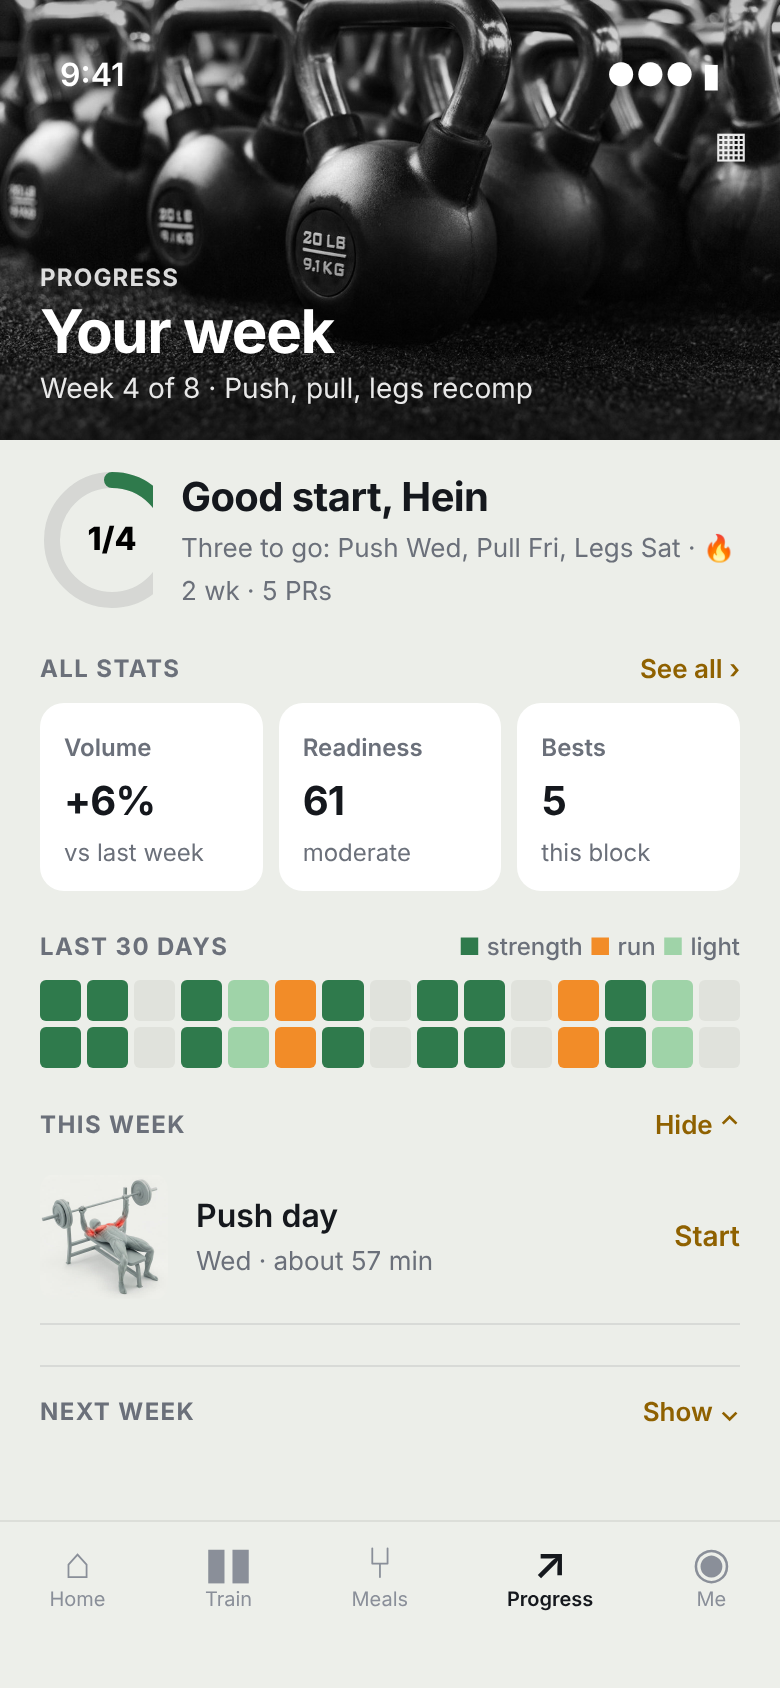
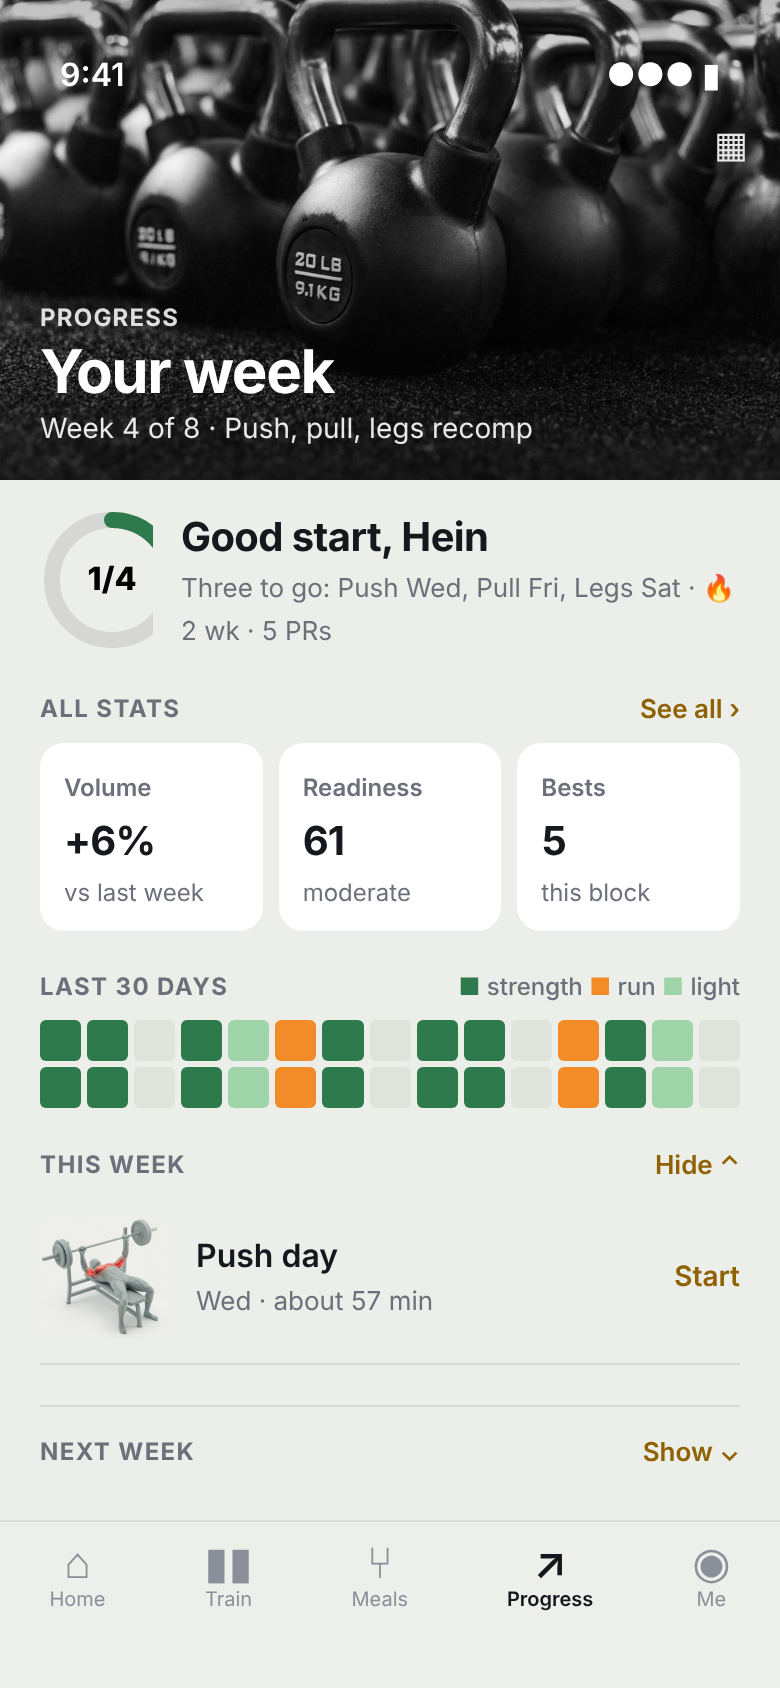
Spec 32: one header height on every tab
Hein spotted the Train header was taller than Pick a goal and Progress;
all photo headers are now 240 pt with the title in the same place.

Claude-Session: https://claude.ai/code/session_01JN8HRfXHAzwszwnq8yH2na

diff --git a/docs/twoplates-design/html/34-t-progress.html b/docs/twoplates-design/html/34-t-progress.html
@@ -38,7 +38,7 @@ h1{font-size:32px;letter-spacing:-.8px;margin:2px 20px 0;line-height:1.1}
 .bar{height:4px;border-radius:2px;background:rgba(21,24,29,.08);margin-top:6px}.bar i{display:block;height:100%;width:25%;background:#2F7A4C;border-radius:2px}
 .av{width:32px;height:32px;border-radius:16px;background:#C9A24A;color:#fff;font-weight:700;display:grid;place-items:center;font-size:13px;flex:none}
 
-.ph{position:relative;height:260px;margin-top:-54px;background-size:cover;background-position:center;overflow:hidden}
+.ph{position:relative;height:240px;margin-top:-54px;background-size:cover;background-position:center;overflow:hidden}
 .ph::after{content:"";position:absolute;inset:0;background:linear-gradient(180deg,rgba(0,0,0,.25) 0,rgba(0,0,0,0) 35%,rgba(0,0,0,.65))}
 .ph .tx{position:absolute;left:20px;right:20px;bottom:16px;color:#fff;z-index:2}
 .ph small{font-size:12px;font-weight:700;letter-spacing:.6px;opacity:.85}.ph b{display:block;font-size:30px;letter-spacing:-.7px;line-height:1.08;margin-top:2px}.ph span{font-size:14px;opacity:.9}
@@ -50,7 +50,7 @@ h1{font-size:32px;letter-spacing:-.8px;margin:2px 20px 0;line-height:1.1}
 .g3{display:grid;grid-template-columns:repeat(3,1fr);gap:8px;margin:8px 20px 0}.g3 .tile{padding:10px 12px}.g3 b{font-size:20px}
 .hm{display:grid;grid-template-columns:repeat(15,1fr);gap:3px;margin:8px 20px 0}
 </style><div class="sb sbw"><span>9:41</span><span>●●● ▮</span></div>
-<div class=ph style="background-image:url(conditioning-hdr.jpg);height:220px"><span class=menu style="font-size:18px">▦</span><div class=tx><small>PROGRESS</small><b>Your week</b><span>Week 4 of 8 · Push, pull, legs recomp</span></div></div>
+<div class=ph style="background-image:url(conditioning-hdr.jpg)"><span class=menu style="font-size:18px">▦</span><div class=tx><small>PROGRESS</small><b>Your week</b><span>Week 4 of 8 · Push, pull, legs recomp</span></div></div>
 <div class=wk><svg width=72 height=72><circle cx=36 cy=36 r=30 fill=none stroke="rgba(21,24,29,.1)" stroke-width=8 /><circle cx=36 cy=36 r=30 fill=none stroke="#2F7A4C" stroke-width=8 stroke-linecap=round stroke-dasharray="47 189" transform="rotate(-90 36 36)"/><text x=36 y=41 text-anchor=middle font-size=16 font-weight=800 font-family=Inter>1/4</text></svg><div><b>Good start, Hein</b><span>Three to go: Push Wed, Pull Fri, Legs Sat · 🔥 2 wk · 5 PRs</span></div></div>
 <div class=coll><span>ALL STATS</span><em>See all ›</em></div>
 <div class=g3><div class=tile><small>Volume</small><b>+6%</b><span>vs last week</span></div><div class=tile><small>Readiness</small><b>61</b><span>moderate</span></div><div class=tile><small>Bests</small><b>5</b><span>this block</span></div></div>

diff --git a/docs/twoplates-design/html/34-t-goal.html b/docs/twoplates-design/html/34-t-goal.html
@@ -38,7 +38,7 @@ h1{font-size:32px;letter-spacing:-.8px;margin:2px 20px 0;line-height:1.1}
 .bar{height:4px;border-radius:2px;background:rgba(21,24,29,.08);margin-top:6px}.bar i{display:block;height:100%;width:25%;background:#2F7A4C;border-radius:2px}
 .av{width:32px;height:32px;border-radius:16px;background:#C9A24A;color:#fff;font-weight:700;display:grid;place-items:center;font-size:13px;flex:none}
 
-.ph{position:relative;height:260px;margin-top:-54px;background-size:cover;background-position:center;overflow:hidden}
+.ph{position:relative;height:240px;margin-top:-54px;background-size:cover;background-position:center;overflow:hidden}
 .ph::after{content:"";position:absolute;inset:0;background:linear-gradient(180deg,rgba(0,0,0,.25) 0,rgba(0,0,0,0) 35%,rgba(0,0,0,.65))}
 .ph .tx{position:absolute;left:20px;right:20px;bottom:16px;color:#fff;z-index:2}
 .ph small{font-size:12px;font-weight:700;letter-spacing:.6px;opacity:.85}.ph b{display:block;font-size:30px;letter-spacing:-.7px;line-height:1.08;margin-top:2px}.ph span{font-size:14px;opacity:.9}
@@ -48,7 +48,7 @@ h1{font-size:32px;letter-spacing:-.8px;margin:2px 20px 0;line-height:1.1}
 
 .chips{display:flex;gap:8px;margin:14px 20px 0;overflow:hidden}.chips div{padding:7px 13px;border-radius:8px;background:#fff;border:1px solid rgba(21,24,29,.14);font-size:14px;font-weight:500;white-space:nowrap}.chips .on{background:#15181D;color:#fff;border-color:#15181D}
 </style><div class="sb sbw"><span>9:41</span><span>●●● ▮</span></div>
-<div class=ph style="background-image:url(hdr-progress.jpg);height:230px"><span class=menu style="font-size:18px">⌕</span><div class=tx><small>PROGRAMS · GUIDED BY TWOPLATES</small><b>Pick a goal</b><span>Your week rebuilds around it.</span></div></div>
+<div class=ph style="background-image:url(hdr-progress.jpg)"><span class=menu style="font-size:18px">⌕</span><div class=tx><small>PROGRAMS · GUIDED BY TWOPLATES</small><b>Pick a goal</b><span>Your week rebuilds around it.</span></div></div>
 <div class=chips><div class=on>All</div><div>Lean</div><div>Move better</div><div>Muscle</div><div>Short</div></div>
 <div style="height:6px"></div>
 <div class=row style="padding:12px 0"><div class=t><small>RECOMMENDED FOR YOU</small><b style="font-size:18px">Lean and strong</b><span>8 weeks · 4× a week · machines + free weights</span></div><img src="machine-chest-press.jpg" style="width:96px;height:72px;object-fit:cover"></div>

diff --git a/docs/twoplates-design/html/34-t-train.html b/docs/twoplates-design/html/34-t-train.html
@@ -38,7 +38,7 @@ h1{font-size:32px;letter-spacing:-.8px;margin:2px 20px 0;line-height:1.1}
 .bar{height:4px;border-radius:2px;background:rgba(21,24,29,.08);margin-top:6px}.bar i{display:block;height:100%;width:25%;background:#2F7A4C;border-radius:2px}
 .av{width:32px;height:32px;border-radius:16px;background:#C9A24A;color:#fff;font-weight:700;display:grid;place-items:center;font-size:13px;flex:none}
 
-.ph{position:relative;height:260px;margin-top:-54px;background-size:cover;background-position:center;overflow:hidden}
+.ph{position:relative;height:240px;margin-top:-54px;background-size:cover;background-position:center;overflow:hidden}
 .ph::after{content:"";position:absolute;inset:0;background:linear-gradient(180deg,rgba(0,0,0,.25) 0,rgba(0,0,0,0) 35%,rgba(0,0,0,.65))}
 .ph .tx{position:absolute;left:20px;right:20px;bottom:16px;color:#fff;z-index:2}
 .ph small{font-size:12px;font-weight:700;letter-spacing:.6px;opacity:.85}.ph b{display:block;font-size:30px;letter-spacing:-.7px;line-height:1.08;margin-top:2px}.ph span{font-size:14px;opacity:.9}

diff --git a/docs/twoplates-design/SPEC-UPDATE-32.md b/docs/twoplates-design/SPEC-UPDATE-32.md
@@ -3,7 +3,7 @@
 Mockups: `mockups/34-t-train.png`, `34-t-goal.png`, `34-t-progress.png`, `34-t-quick.png` (together `34-tabs-compare.png`). Hein liked Meals' "Food this week" photo header and wants the same on other tabs.
 
 ## 1. Photo headers (Train, Pick a goal, Progress)
-- Full-bleed photo, about 220–260 pt, dark gradient at the bottom, white title block (small caps line, 30 pt title, one grey line), status bar and ⋯ in white.
+- Full-bleed photo, **the same 240 pt height on every tab (Meals included)**, title block at the same position, dark gradient at the bottom, white title block (small caps line, 30 pt title, one grey line), status bar and ⋯ in white.
 - Train: gym interior with machines; title = program name; line = "3× a week · Advanced · Gym · with Lenaigh"; Start <today> stays the one primary button.
 - Pick a goal: dumbbell rack or similar; program names unchanged (Lean and strong, Back to it, Bigger arms, Service ready, Move freely…). Each program row shows a picture of the equipment it uses (machine, cable, dumbbells, rack; a pull-up bar for bodyweight programs).
 - Progress: kettlebells, plates or a rack; title "Your week".
